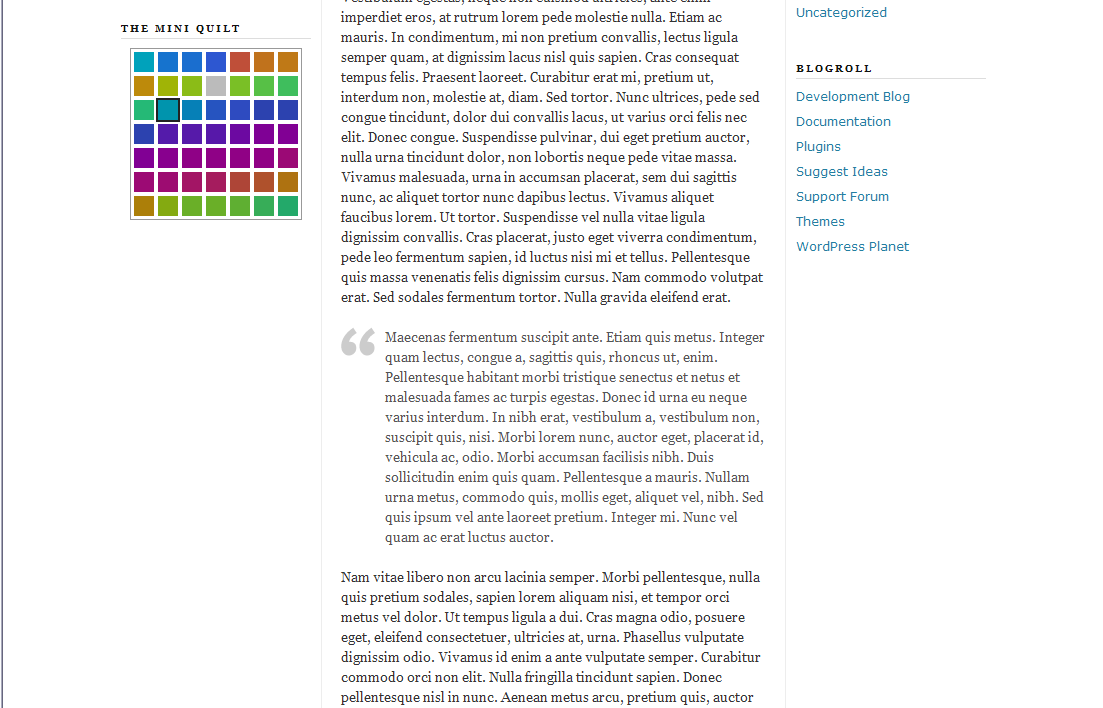
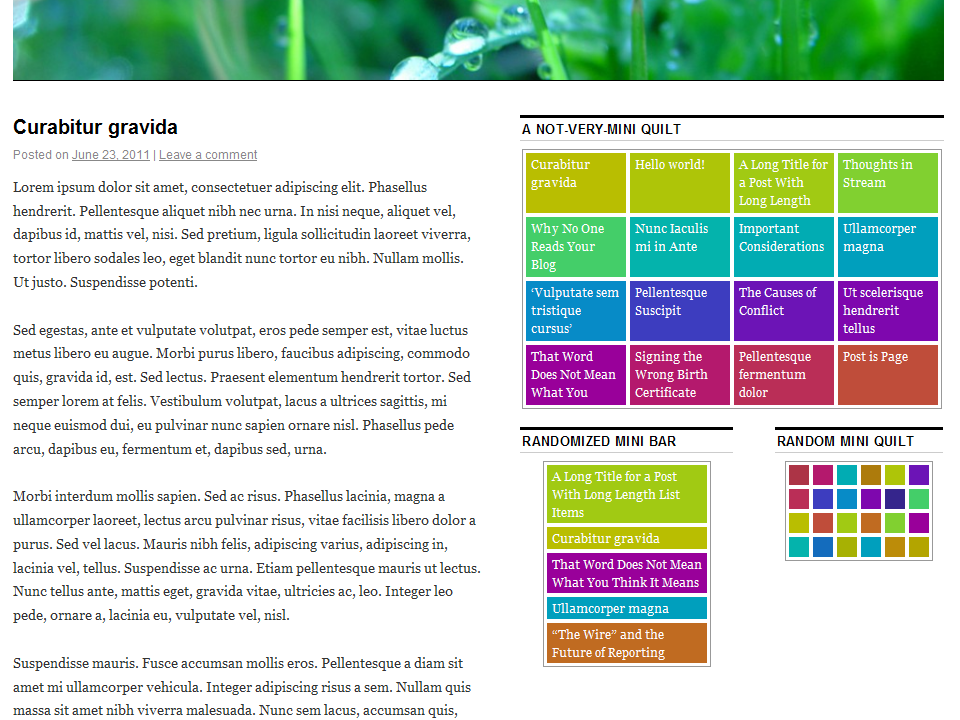
git-svn-id: https://plugins.svn.wordpress.org/mini-quilt/trunk@413928 b8457f37-d9ea-0310-8a92-e5e31aec5664

diff --git a/miniquilt.php b/miniquilt.php
@@ -2,171 +2,182 @@
 /*
 Plugin Name: Mini Quilt
 Plugin URI: http://www.ikirudesign.com/plugins/mini-quilt/
-Description: A stand-alone implementation of the <a href="http://www.ikirudesign.com/themes/kaleidoscope/">Kaleidoscope theme</a>'s Mini Quilt sidebar element.
-Author: David Hayes
-Version: 0.5.0
+Description: A unique way to show recent or random posts in your sidebar using a visually interesting quilt of your posts with colors derived by the <a href="http://www.ikirudesign.com/themes/kaleidoscope/">Kaleidoscope theme</a>'s color algorithm.
+Author: david (b) hayes
+Version: 0.9.0
 Author URI: http://www.davidbhayes.com/
 License: GPL 2.0 (http://www.gnu.org/licenses/old-licenses/gpl-2.0.html)
 */
 
-function mq_css() {
-  mq_load_options();
-  global $patches_across, $rows, $patch_width;
-  $main_width = ($patch_width+4)*$patches_across;
-//  $sheet_url = get_bloginfo('wpurl')."/wp-content/plugins/miniquilt/mqstyle.php";
-//  echo '<link rel="stylesheet" type="text/css" href="'.$sheet_url.'" />';
-/*
-  Yes, I know that !important declarations are bad CSS. 
-  But when you need to override styles while contending with an 
-  unpredictable structure it's quite nearly the only option. 
-*/
-?>
-<style>
-ul.miniquiltbox {
-  margin-left: auto !important;
-  margin-right: auto !important;
-  padding: 1px !important;
-  background-color: white;
-  overflow: auto;
-  list-style: none inside none !important;
-  letter-spacing: 1;
-  width: <?php echo $main_width ?>px !important;
-  border: 1px solid #999 !important;
-}
-ul.miniquiltbox li {
-  float: left !important;
-  margin: 0 !important;
-  padding: 0 !important;
-  list-style: none inside none !imporant;
-  clear: none !important;
-  border: none !important;
-  background: none !important;
-}
-ul.miniquiltbox li:before {
-  content: ""  !important; /*This is the override Kubrick's oddball list style*/
-}
-ul.miniquiltbox li a {
-  display: block !important;
-  width: <?php echo $patch_width; ?>px !important;
-  height: <?php echo $patch_width; ?>px !important;
-  border: 2px solid white !important;
-  margin: 0 !important;
-  padding: 0 !important;
-}
-ul ul.miniquiltbox li a:hover {
-  border: 2px solid #222 !important;
-    margin: 0 !important;
-  padding: 0 !important;
-}
-</style>
-<?php 
-}
-add_filter('wp_head', 'mq_css');
+// -=- Putting the vital styling for the Mini Quilt in the head of the document
+add_action('wp_print_styles', 'add_mq_stylesheet');
 
-function mq_length_fix($x){
-    if(strlen($x)<2){
-        $x = sprintf("0%s",$x);
-    }
-    return $x;
+function add_mq_stylesheet() {
+	$myStyleUrl = WP_PLUGIN_URL . '/mini-quilt/mqstyle.css';
+	$myStyleFile = WP_PLUGIN_DIR . '/mini-quilt/mqstyle.css';
+	if ( file_exists($myStyleFile) ) {
+		wp_register_style('myStyleSheets', $myStyleUrl);
+		wp_enqueue_style( 'myStyleSheets');
+	}
 }
 
-function mq_cos_color ($pshift) {
-  // the color's value
-  $hbase=.82; //$hbase 0<$hsafe<2; ~2 bright/white, ~0 dark/black
-  
-  // the colors saturation
-  global $postyear;
-  $yeardiff = date(Y)-$postyear;  // $hshift 1-->0
-  $hshift = .08*$yeardiff;          // $hshift is how much to change tint/shade /yr
-  
-  if ($hshift > 1) { //this assures that the colors are always valid (after years of darkening)
-    $hshift = 1;
-  }
-  
-  if ($hbase > 1) {     // assuring $hsafe is always <= 1, so that wave peaks are still less than 255 
-    $hsafe = 2-$hbase;  // $hsafe assures that all colors will be valid 
-  }
-  if ($hbase <= 1) {  //when we don't seen to worry about height
-    $hsafe = $hbase;
-  }
-   
-  // change the first (and only the first) +/- to toggle fade/darken
-  $coscol = dechex(127.5*(($hbase-($hsafe*$hshift))+(($hsafe-($hsafe*$hshift))*(cos((M_PI*($pshift))/180)))));
-  return $coscol;
+// -=- Add our function to the widgets_init hook.
+add_action( 'widgets_init', 'mq_load_widgets' );
+
+function mq_load_widgets() {
+	register_widget( 'Mini_Quilt_Widget' );
 }
 
-function mq_broaden_shift($indeg, $broaden=0, $shift=0) { //$range is roughly the length you want to spend on the peak
-  //$newx = $x;  // it's best to avoid values for $range above 75, the curves get wonky
-  $outdeg = $shift+$indeg-($broaden*sin((M_PI*($indeg+$shift))/180));
-  return $outdeg;
-}
+// -=- The Class Extension to make the Widget
+class Mini_Quilt_Widget extends WP_Widget {
+	function Mini_Quilt_Widget() {
+		$widget_ops = array('classname'=>'mq', 'description'=>'A unique and visually interesting way to highlight recent or random posts.' ); // It's basic settings; below, it's control settings
+		$control_ops = array( 'id_base' => 'mq-widget' );
+		$this->WP_Widget( 'mq-widget', 'Mini Quilt', $widget_ops, $control_ops ); //makes the widget
+	}
+	
+	function widget ($args , $instance) {
 
-function mq_date_to_color($day,$year) {
-  global $postyear;
-  $postyear = $year;
+		extract($args);
+		$widget_title = $instance['widget_title'];
+		$rows_to_display = max($instance['rows_to_display'],1); //using max to keep safe from neg/nonint values
+		$columns_to_display = max($instance['columns_to_display'],1);
+		$patch_width = $instance['patch_width'];
+		$patch_height = $instance['patch_height'];
+		$randomize = $instance['randomize'];
+		$show_post_titles = $instance['show_post_titles'];
 
-  $degrees = .986*$day; // beacuse there are 360, not 365.24, degrees in a circle
-  if (get_option(southern_hemisphere)) {$degrees = $degrees+180;}
-  $redshift = mq_broaden_shift($degrees, 18, 134); //Best Values: 18, 134
-  $greenshift = mq_broaden_shift($degrees, 20, 240);//Best Values: 20, 240
-  $blueshift = mq_broaden_shift($degrees, 10); //5, 0
-  $redhex = mq_cos_color($redshift);
-  $greenhex = mq_cos_color($greenshift);
-  $bluehex = mq_cos_color($blueshift);
-  $redfix = mq_length_fix($redhex);
-  $greenfix = mq_length_fix($greenhex);
-  $bluefix = mq_length_fix($bluehex);
-  
-  $bestrgb = sprintf("%s%s%s",$redfix,$greenfix,$bluefix);
-  return $bestrgb;
-}
+		$posts_to_display = $rows_to_display*$columns_to_display;
+		$new_patch_width = max(0,$patch_width-10); //these correct for the padding which was
+		$new_patch_height = max(0,$patch_height-4);// necessary to make the text look ok		
+		if ($new_patch_height < 6 and !$show_post_titles) { 
+			$new_patch_height=6; 
+		}
+		$main_width = ($new_patch_width+14)*$columns_to_display;
 
-function mq_mini_quilt ($args) { 
-    extract($args);
-    mq_load_options();
-    global $patches_across, $rows, $patch_width;
-    $total_patches = $patches_across*$rows;
-    echo $before_widget;
-    echo $before_title.'The Mini Quilt'.$after_title; ?>
-      <ul class="miniquiltbox">
-        <?php
-            $recentPosts = new WP_Query();
-            $query = 'showposts='.$total_patches.'&caller_get_posts=1';
-            $recentPosts->query($query);
-         while ($recentPosts->have_posts()) : $recentPosts->the_post(); 
-          $test_id = get_the_ID(); ?>
-          <li><a style="background: #<?php if (is_single($test_id)) {echo 'bbb';} else {echo mq_date_to_color(get_the_time(z), get_the_time(Y));}; ?> !important;" href="<?php the_permalink() ?>" rel="bookmark" title="&#8220;<?php the_title(); ?>&#8221; from <?php the_time('d M Y'); ?>"></a></li>
-      	<?php endwhile; ?>
-      </ul>
-    <?php echo $after_widget;
-}
+		echo $before_widget;
+		echo $before_title.$widget_title.$after_title; ?>
+		  <ul class="miniquiltbox" style="width: <?php echo $main_width ?>px;">
+			<?php
+				$recentPosts = new WP_Query();
+				if ($randomize) {
+				  $query = 'showposts='.$posts_to_display.'&ignore_sticky_posts=1&orderby=rand';
+				}
+				else {
+				  $query = 'showposts='.$posts_to_display.'&ignore_sticky_posts=1';
+				}
+				$recentPosts->query($query);
+			 while ($recentPosts->have_posts()) : $recentPosts->the_post(); 
+			  $test_id = get_the_ID(); ?>
+				<?php if ($show_post_titles) { ?>
+					<li><a style="background: #<?php if (is_single($test_id)) {echo 'bbb';} else {echo mq_date_to_color(get_the_time('z'), get_the_time('Y'));}; ?>;   width: <?php echo $new_patch_width; ?>px; height: <?php if ($new_patch_height>0) {echo $new_patch_height.'px';} else {echo 'auto';} ?>;" href="<?php the_permalink() ?>" rel="bookmark" title="&#8220;<?php the_title(); ?>&#8221; from <?php the_time('d M Y'); ?>"><?php the_title(); ?></a></li>
+				<?php }
+				else { ?>
+					<li><a style="background: #<?php if (is_single($test_id)) {echo 'bbb';} else {echo mq_date_to_color(get_the_time('z'), get_the_time('Y'));}; ?>;   width: <?php echo $new_patch_width; ?>px; height: <?php echo $new_patch_height; ?>px;" href="<?php the_permalink() ?>" rel="bookmark" title="&#8220;<?php the_title(); ?>&#8221; from <?php the_time('d M Y'); ?>"></a></li>
+			<?php	}
+			 endwhile; ?>
+		  </ul>
+		<?php echo $after_widget;
+	}
+	
+	function update( $new_instance, $old_instance ) {
+		$instance = $old_instance;
 
-function mq_control() {
-    if (!get_option('mq_control')) {$options = array('patch_width'=>20,'patches_across'=>8,'rows'=>6);}
-      else {$options = get_option('mq_control');}
-    
-    if ($_POST['mq_control-submit']) {
-      $options = array('patch_width' => $_POST['mq_control-patch_width'], 'patches_across' => $_POST['mq_control-patches_across'], 'rows' => $_POST['mq_control-rows']);
-      update_option('mq_control', $options);
-    }
-     
-    echo '<p>Patch Size (in pxs):<br /><input type="text" name="mq_control-patch_width" value="'.$options['patch_width'].'" id="mq_quilt-patch_width" /></p>';
-    echo '<p>Columns:<br /><input type="text" name="mq_control-patches_across" value="'.$options['patches_across'].'" id="mq_control-patches_across" /></p>';  
-    echo '<p>Rows:<br /><input type="text" name="mq_control-rows" value="'.$options['rows'].'" id="mq_control-rows" /></p>';
-    echo '<input type="hidden" id="mq_control-submit" name="mq_control-submit" value="1" />';
-}
+		// absint and strip_tags ensure nothing unsavory gets through
+		$instance['widget_title'] = strip_tags( $new_instance['widget_title'] );
+		$instance['rows_to_display'] = absint( $new_instance['rows_to_display'] );
+		$instance['columns_to_display'] = absint( $new_instance['columns_to_display'] );
+		$instance['patch_width'] = absint( $new_instance['patch_width'] );
+		$instance['patch_height'] = absint( $new_instance['patch_height'] );
+		$instance['randomize'] = isset($new_instance['randomize']);
+		$instance['show_post_titles'] = isset($new_instance['show_post_titles']);
 
-function mq_load_options() {
-    $options = get_option('mq_control');
-    global $patches_across, $rows, $patch_width;
-    $patches_across = $options['patches_across'];
-    $rows = $options['rows'];
-    $patch_width = $options['patch_width'];
-}
-function widget_myuniquewidget_register() {
-  register_sidebar_widget('Mini Quilt','mq_mini_quilt');
-  register_widget_control('Mini Quilt','mq_control');
-}
-add_action('init', widget_myuniquewidget_register);
+		return $instance;
+	}
+	
+	function form ($instance) {
+		$defaults = array('widget_title'=>'The Mini Quilt', 'rows_to_display'=>5, 'columns_to_display'=>6, 'patch_width'=>20, 'patch_height'=>20, 'randomize'=>false, 'show_post_titles'=>false);
+		$instance = wp_parse_args( (array) $instance, $defaults ); ?>
+		
+		<p>
+			<label for="<?php echo $this->get_field_id( 'widget_title' ); ?>">Title:</label>
+			<input class="widefat" id="<?php echo $this->get_field_id( 'widget_title' ); ?>" name="<?php echo $this->get_field_name( 'widget_title' ); ?>" value="<?php echo $instance['widget_title']; ?>" type="text" />
+		</p>
 
+		<p>
+			<label for="<?php echo $this->get_field_id( 'rows_to_display' ); ?>">Quilt Dimensions (rows x cols):</label>
+			<input id="<?php echo $this->get_field_id( 'rows_to_display' ); ?>" name="<?php echo $this->get_field_name( 'rows_to_display' ); ?>" value="<?php echo $instance['rows_to_display']; ?>" type="text" size="3" /> x <input id="<?php echo $this->get_field_id( 'columns_to_display' ); ?>" name="<?php echo $this->get_field_name( 'columns_to_display' ); ?>" value="<?php echo $instance['columns_to_display']; ?>" type="text" size="3" />
+		</p>
+		
+		<p>
+			<label for="<?php echo $this->get_field_id( 'patch_width' ); ?>">Patch Dimensions (width x height in <strong>px</strong>):</label>
+			<input id="<?php echo $this->get_field_id( 'patch_width' ); ?>" name="<?php echo $this->get_field_name( 'patch_width' ); ?>" value="<?php echo $instance['patch_width']; ?>" type="text" size="3" /> x <input id="<?php echo $this->get_field_id( 'patch_height' ); ?>" name="<?php echo $this->get_field_name( 'patch_height' ); ?>" value="<?php echo $instance['patch_height']; ?>" type="text" size="3" />
+		</p>
+		
+		<p>
+		<em>To create a Mini Bar: set columns to 1, height to 0, and check Show Post Titles.</em>
+		</p>
+		
+		<p>
+			<input class="checkbox" type="checkbox" <?php checked( $instance['randomize'], 1 ); ?> id="<?php echo $this->get_field_id( 'randomize' ); ?>" name="<?php echo $this->get_field_name( 'randomize' ) ; ?>" />
+			<label for="<?php echo $this->get_field_id( 'randomize' ); ?>">Randomize</label>
+		</p>
+		
+		<p>
+			<input class="checkbox" type="checkbox" <?php checked( $instance['show_post_titles'], 1 ); ?> id="<?php echo $this->get_field_id( 'show_post_titles' ); ?>" name="<?php echo $this->get_field_name( 'show_post_titles' ) ; ?>" />
+			<label for="<?php echo $this->get_field_id( 'show_post_titles' ); ?>">Show Post Titles</label>
+		</p>
+		
+<?php
+	}
+	
+}
+// -=- The Kaleidoscope Functions -- These make the colors
+function mq_date_to_color( $day, $year ) {
+
+	$red = mq_color_maker( $day, $year, 20, 134 ); //18, 134
+	$green = mq_color_maker( $day, $year, 20, 240 ); //20, 240
+	$blue = mq_color_maker( $day, $year, 10, 0 ); // 10, 0
+	
+	return $rgb = "{$red}{$green}{$blue}"; //concanate the calculated colors and return them
+}
+function mq_color_maker( $day, $year, $broaden=0, $shift=0 ) {
+
+	$in_degree = .986*$day; // from 365.25=>360
+	
+	/* pshift = 
+	New degree value = incoming period shift + degree from year - sine function
+	Sine Function = Random value * sine of shifted value 
+		> This essentially works to make the coming cosine function stay near its peak for a while
+		> based on the magnitude of the random value
+	*/
+	$pshift = $shift+$in_degree-($broaden*sin((M_PI*($in_degree+$shift))/180)); 
+	
+	$year_diff = date('Y')-$year;
+	$hshift = .08*$year_diff; // to be used for further away years fading
+	if ( $hshift > 1 ) { //this assures that the colors are always valid otherwise we could get negative numbers
+		$hshift = 1;
+	} 
+	
+	$HBASE = .82; //the center of the function; set between 0 and 2, lower are more saturated (darker)
+	if ( $HBASE > 1 ) {
+		$HSAFE = 2-$HBASE; // $hsafe is to ensure no final values greater than 2, which would create invalid colors
+	} else {
+		$HSAFE = $HBASE;
+	}
+	
+	/* calced_color ==
+	Use Cosine to create a weighted set of results between 0 and 2
+	Multiply by 127.5 to get results between 0 and 255
+	dechex for results between 0 and FF
+	+Change the first (and only the first) +/- to toggle fade/darken
+	*/ 
+	$calced_color = dechex(127.5*(($HBASE-($HSAFE*$hshift))+(($HSAFE-($HSAFE*$hshift))*(cos((M_PI*($pshift))/180))))); 
+	
+	if ( strlen( $calced_color ) < 2 ) { //single digit calced_color values give invalid colors
+	  $calced_color = "0".$calced_color; // so add a zero if it's a single digit
+	}	
+	
+	return $calced_color;
+}
 ?>
